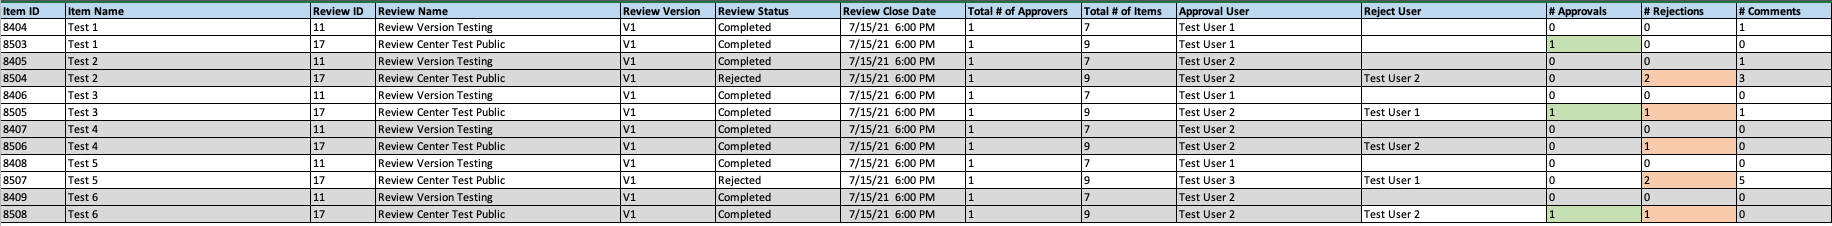
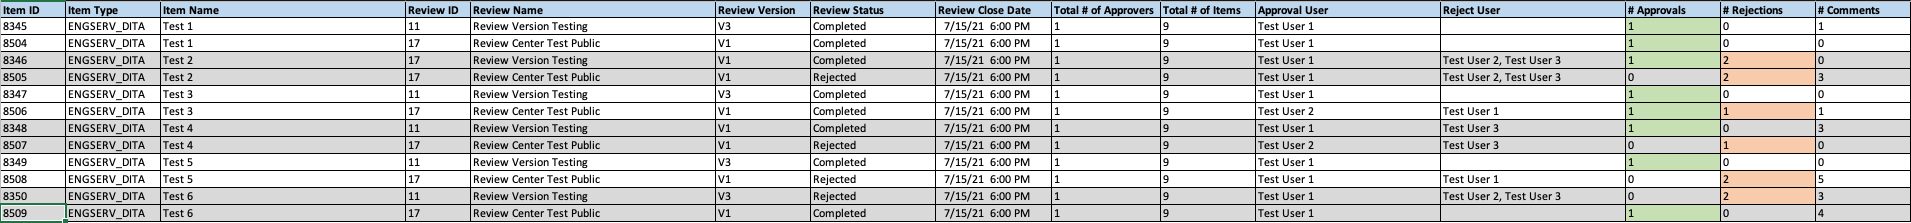
Review Details Per Item Report Update
- Item Type Key column added after Item ID column
- ReadMe documentation updated
- Preview images updated

diff --git a/Review Details Per Item Context Based/README.md b/Review Details Per Item Context Based/README.md
@@ -3,7 +3,7 @@
 ## Details
 This report can be exported on a collection of items of any type from the project tree constructing a single sheet excel export. The report will gather active reviews the item is included on, building a row of review details per item. 
 
-The report will include the following fields per row: Item API ID, Name, Review ID, Review Name, Review Version, Review Status, 
+The report will include the following fields per row: Item API ID, Item Type Key, Name, Review ID, Review Name, Review Version, Review Status, 
 Close Date, # of Approvers, # of Items, Users who Approved the review, Users who Rejected the Review, # of Approvals, # of Rejections, and # of Comments per review.
 
 By default the report will gather and build a row for every active review the item is on however a report parameter is included to filter the data by only the items most recent review. Should an item not have a review the report will only show the items API ID and name.
